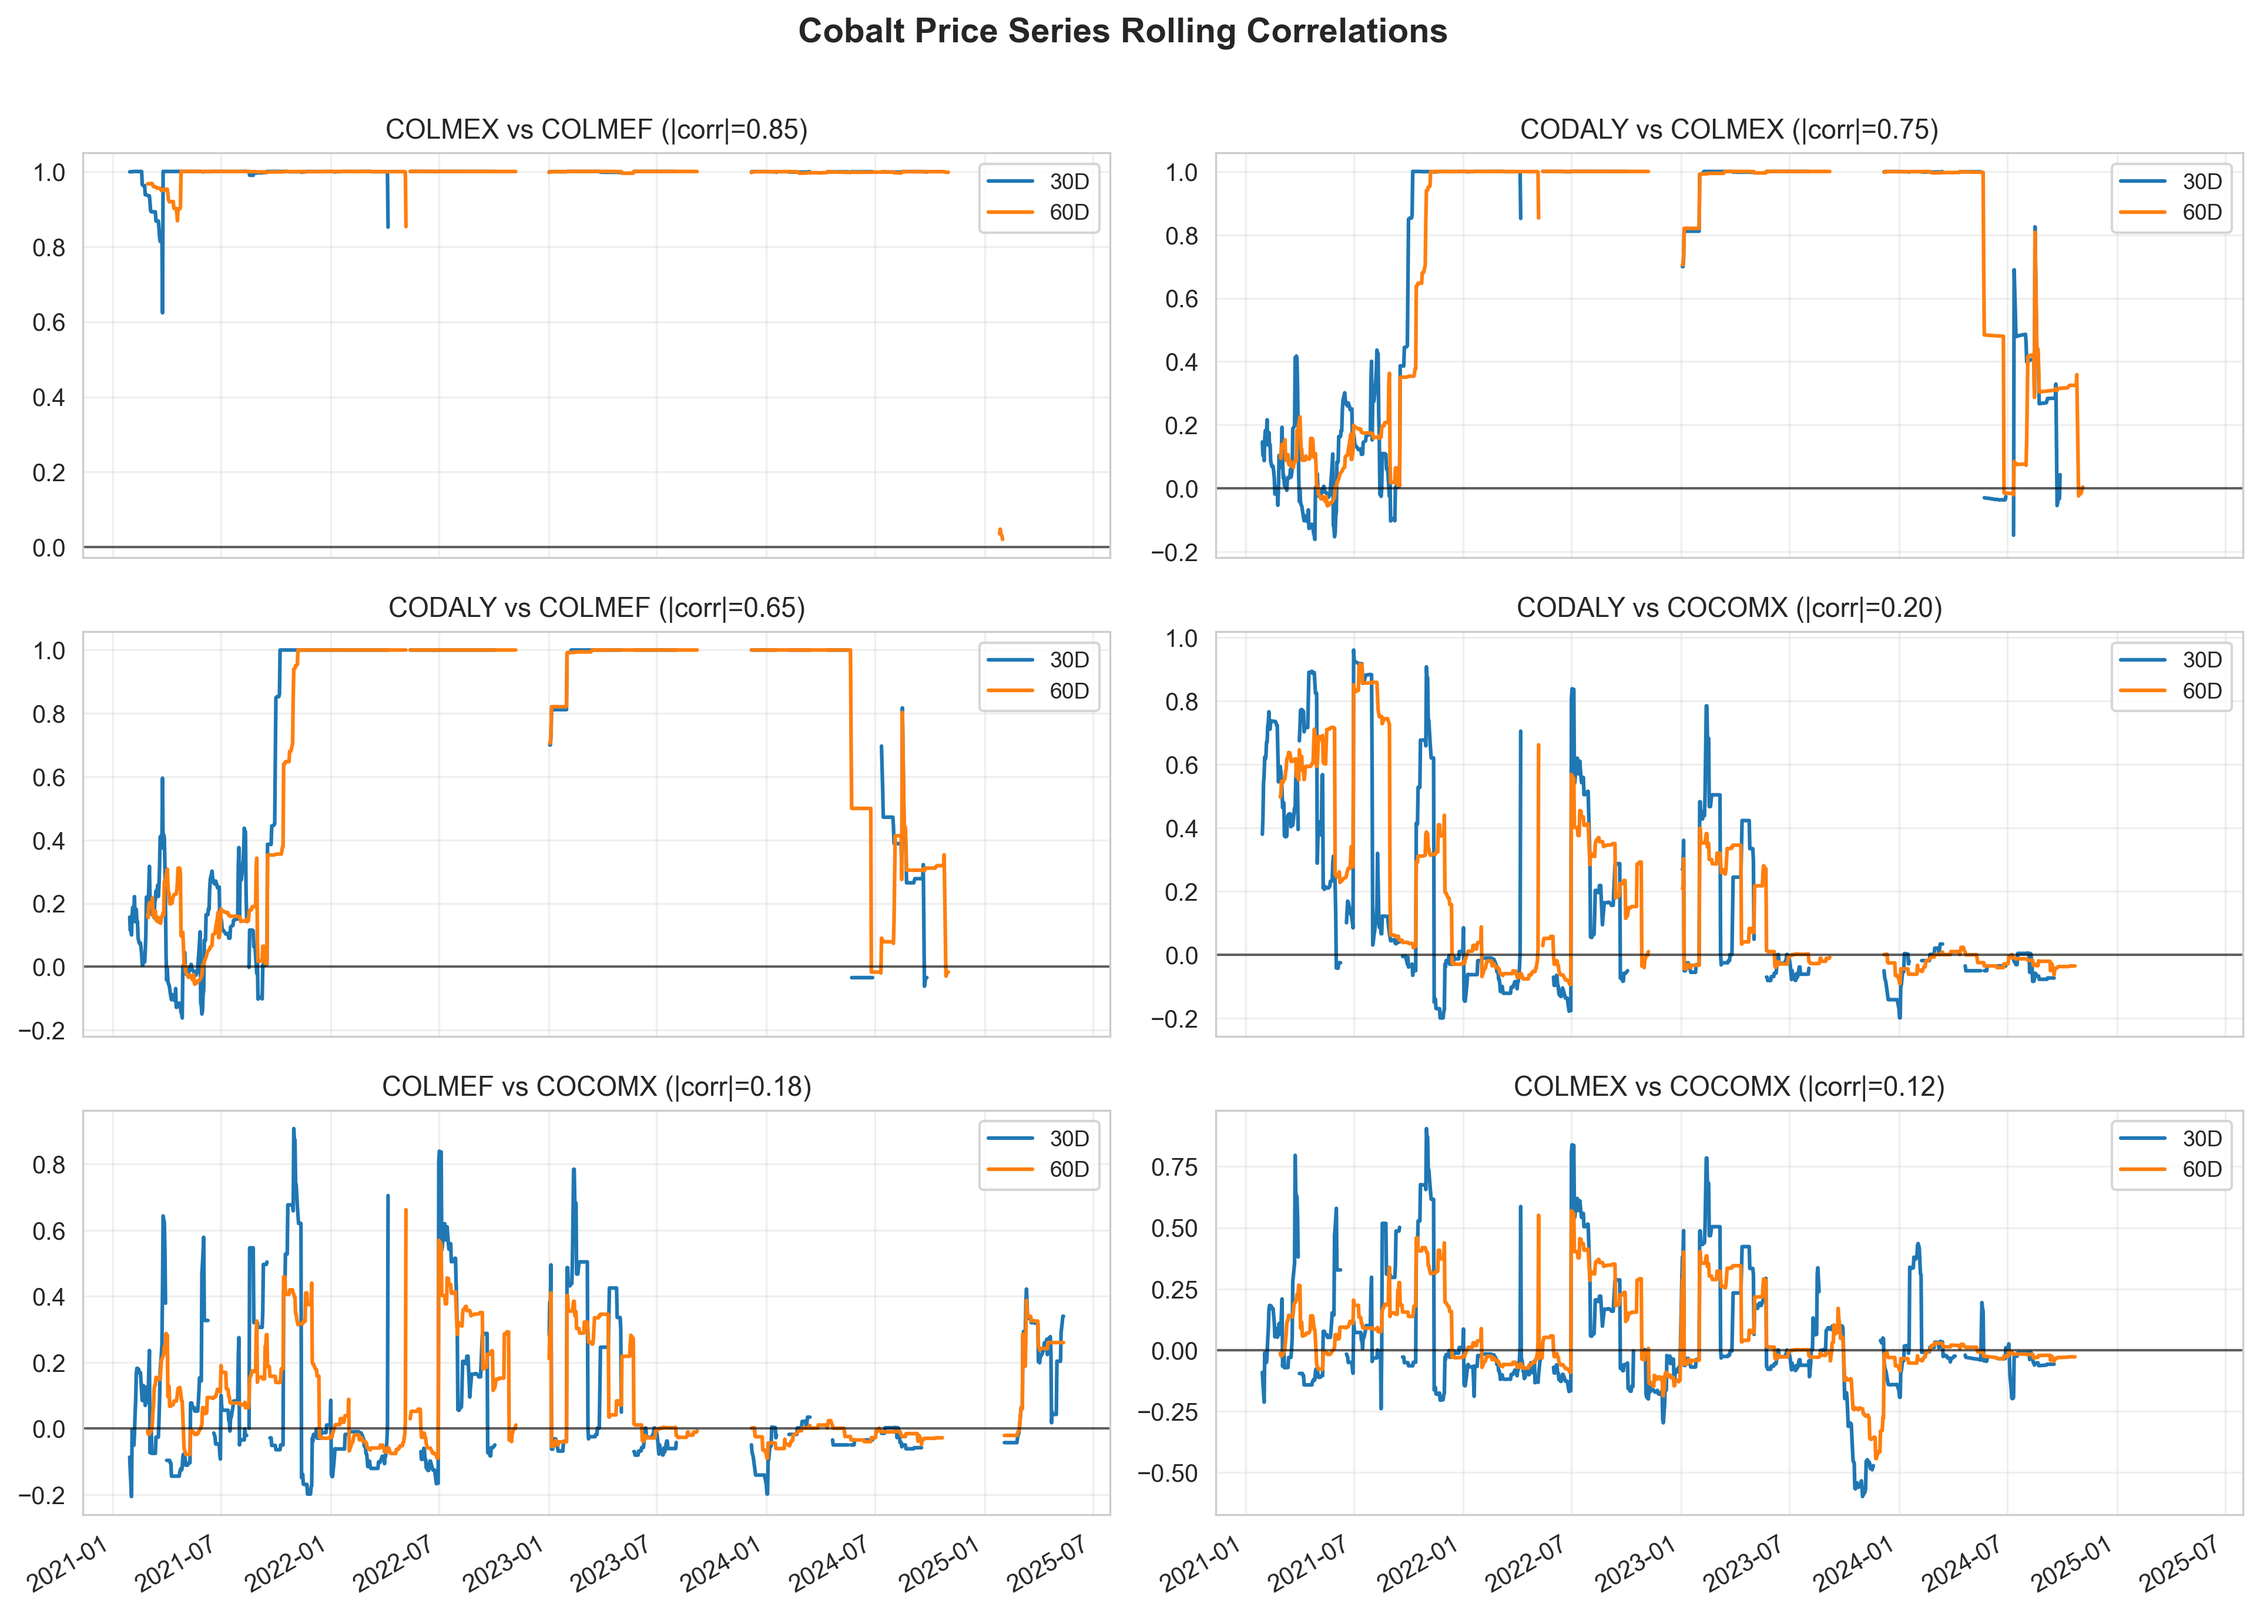
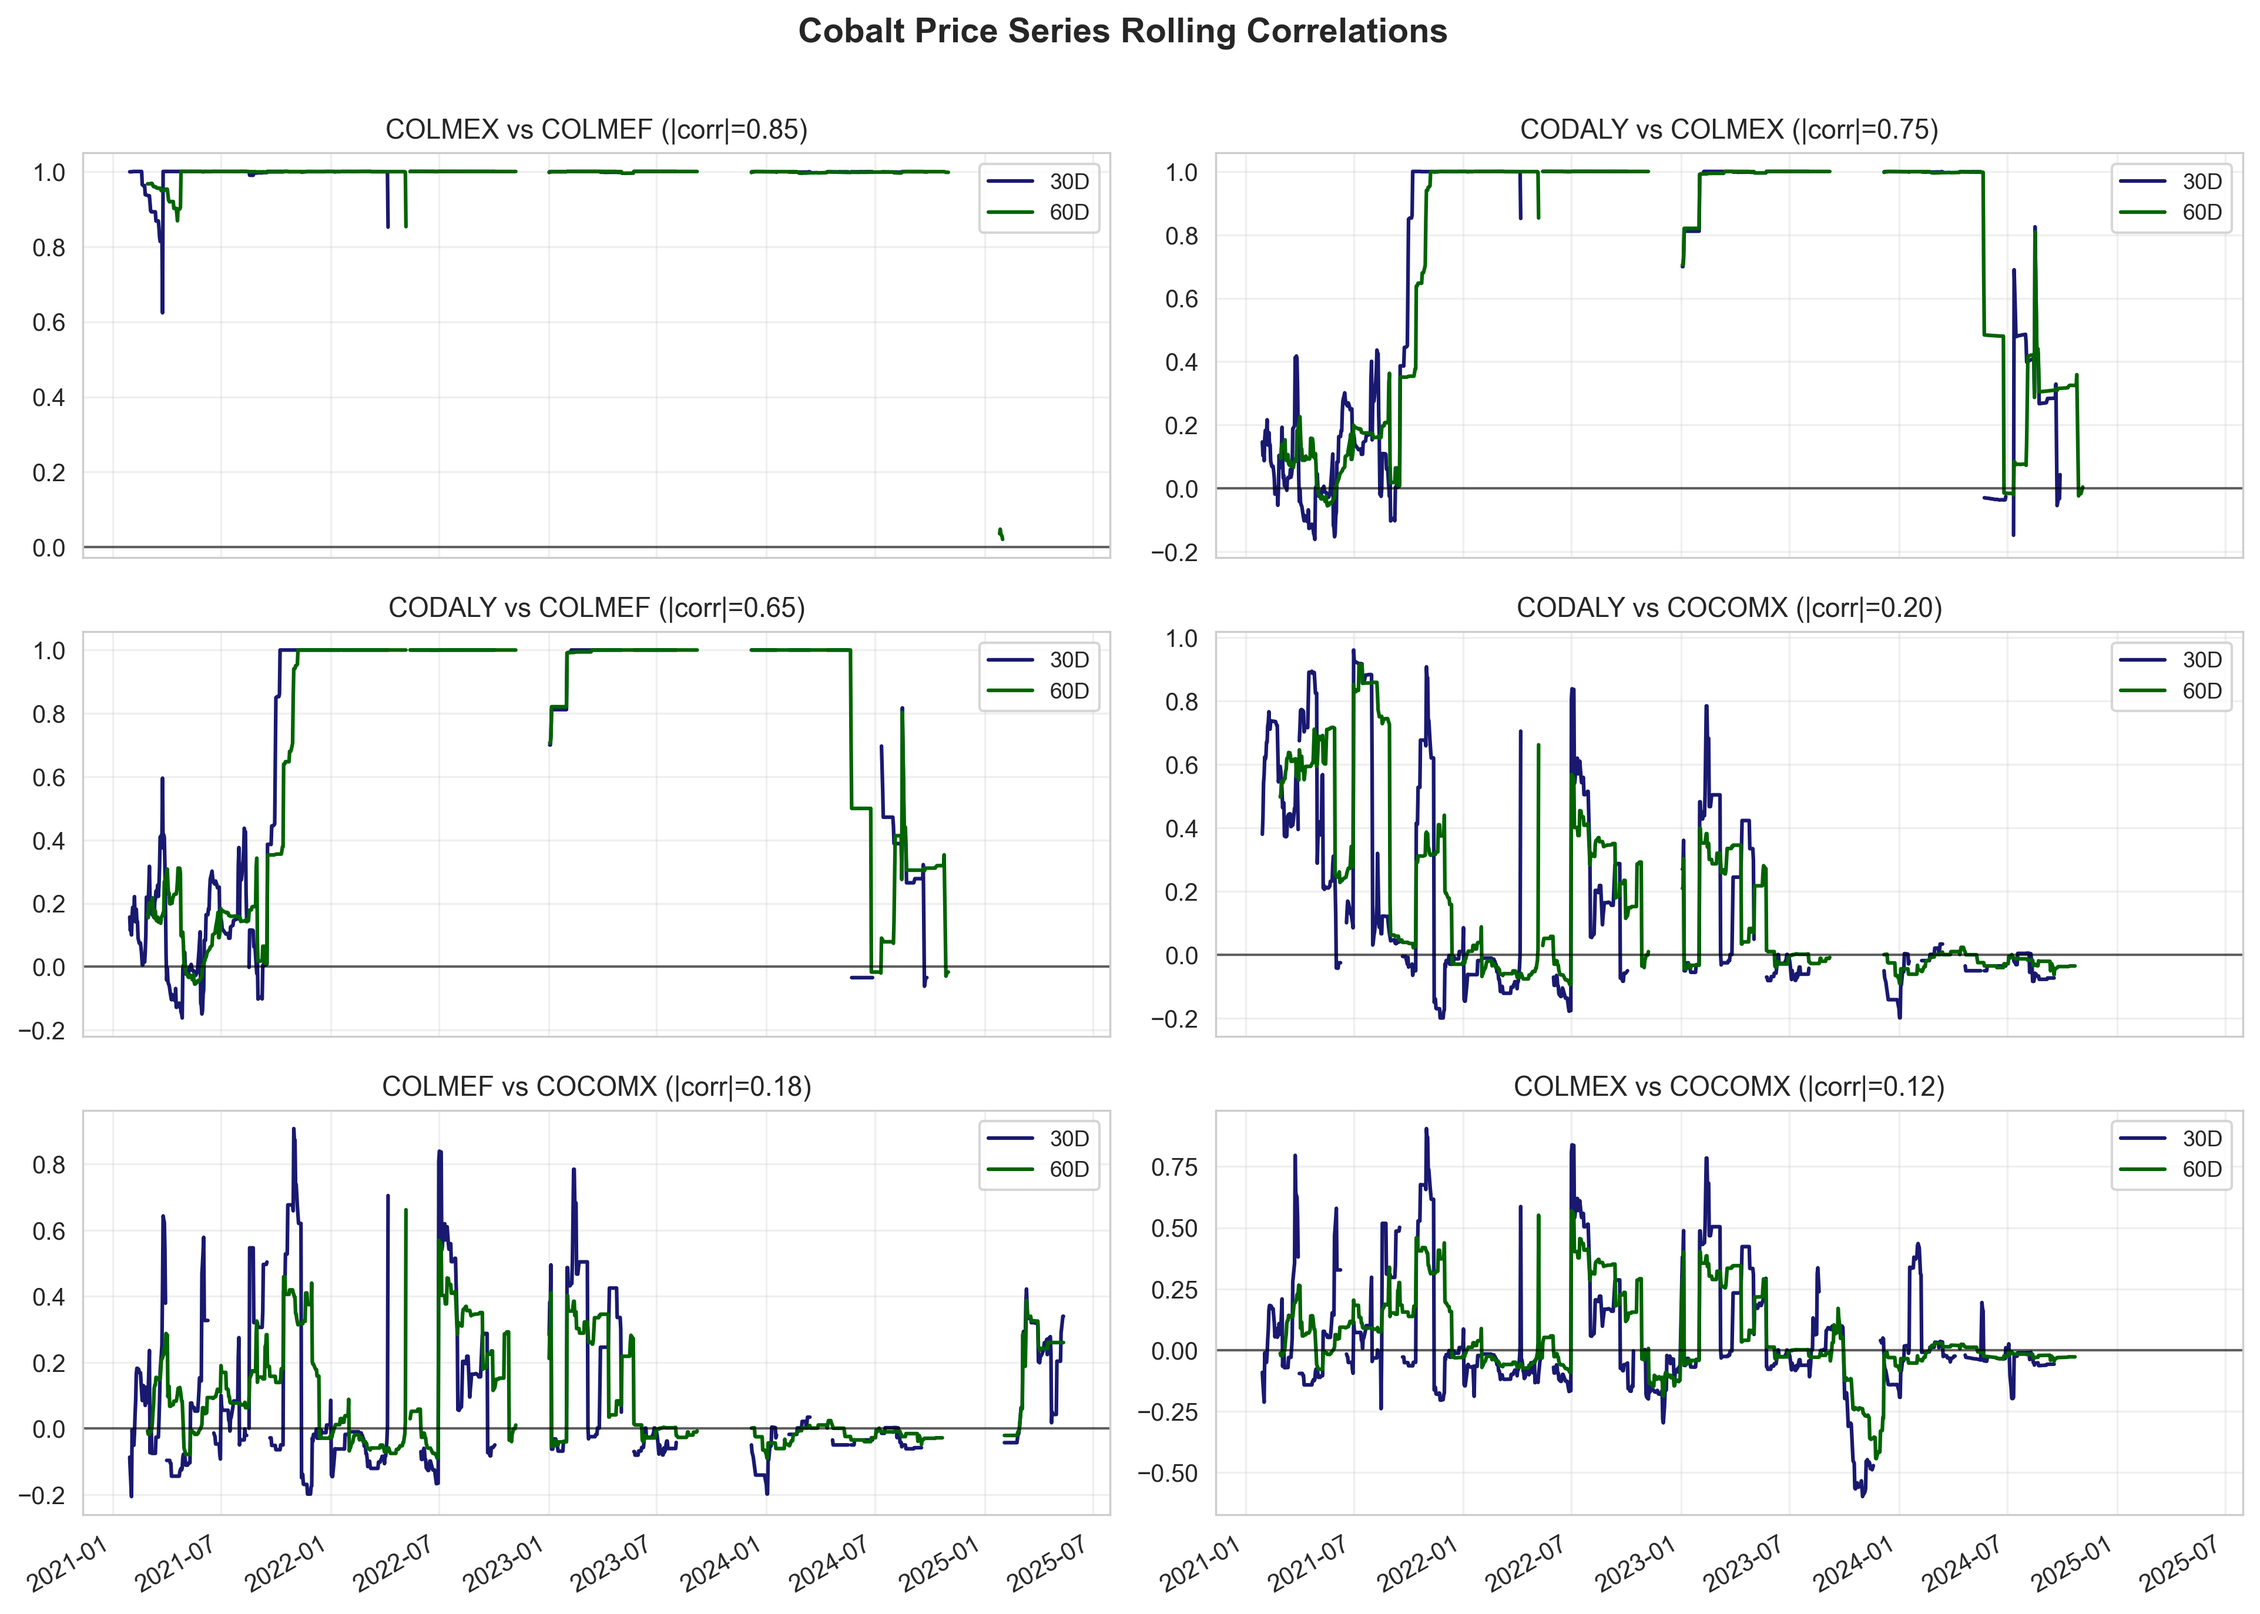
UPD: update rolling panels for copper, lithium, and nickel to use new interpolated CSVs, adjust rolling window sizes, and implement column renaming functionality

diff --git a/barb_experiments/lithium_rolling_panels.py b/barb_experiments/lithium_rolling_panels.py
@@ -1,6 +1,6 @@
 #!/usr/bin/env python3
 """
-Compute rolling correlation windows for copper time series from copper_prices_tickers.csv.
+Compute rolling correlation windows for lithium time series from ALL_lithium_prices_interpolated.csv.
 This script analyzes rolling correlations between different copper price series.
 """
 
@@ -15,7 +15,8 @@ from typing import List, Tuple
 
 def load_and_prepare_data(csv_path: str) -> pd.DataFrame:
     """Load CSV and prepare data for correlation analysis."""
-    df = pd.read_csv("barb_experiments/barb_data/lithium_prices_tickers.csv")
+    #df = pd.read_csv("barb_experiments/barb_data/lithium_prices_tickers.csv")
+    df = pd.read_csv("data/ALL_lithium_prices_interpolated.csv")
     
     if 'Date' not in df.columns:
         raise ValueError(f"Expected a 'Date' column in {csv_path}")
@@ -30,7 +31,26 @@ def load_and_prepare_data(csv_path: str) -> pd.DataFrame:
             continue
         if not pd.api.types.is_numeric_dtype(df[col]):
             df[col] = pd.to_numeric(df[col], errors='coerce')
+    ticker_mapping = {
+            "Price_DailyMetal": "LIDALY",
+            "Price_SouthAmericaLOB": "LISAME",
+            "Price_COMEXLithiumHydroxide": "LICOMX",
+            "Price_LithiumAmericasCorp": "LILAMC",
+            "Price_EastAsiaLithiumCarbonate": "LIEALC",
+            "Price_LithiumLME": "LILMEX"
+        }
+    # Apply the mapping to rename columns
+    df = df.rename(columns=ticker_mapping)
+
+    # Optional: Print which columns were renamed for debugging
+    renamed_cols = [old for old in ticker_mapping.keys() if old in df.columns]
+    if renamed_cols:
+        print(f"Renamed columns: {renamed_cols}")
     
+    # Optional: Check for unmapped columns (excluding Date)
+    unmapped_cols = [col for col in df.columns if col != 'Date' and col not in ticker_mapping.values()]
+    if unmapped_cols:
+        print(f"Warning: Unmapped columns found: {unmapped_cols}")
     return df
 
 
@@ -73,7 +93,7 @@ def get_top_correlated_pairs(returns: pd.DataFrame, top_n: int = 6) -> List[Tupl
 
 
 def plot_rolling_correlations(returns: pd.DataFrame, pairs: List[Tuple[str, str, float]], 
-                            windows: List[int] = [20, 60], output_path: str = None, 
+                            windows: List[int] = [30, 60], output_path: str = None, 
                             ncols: int = 2) -> None:
     """Plot rolling correlations for top pairs."""
     
@@ -85,7 +105,8 @@ def plot_rolling_correlations(returns: pd.DataFrame, pairs: List[Tuple[str, str,
     nrows = int(np.ceil(n_pairs / ncols))
     
     # Set up colors
-    palette = sns.color_palette('tab10', n_colors=max(3, len(windows)))
+    #palette = sns.color_palette('tab10', n_colors=max(3, len(windows)))
+    palette = sns.color_palette(['#191970', '#006400'], n_colors=max(3, len(windows)))
     sns.set_style('whitegrid')
     
     # Create subplots
@@ -171,8 +192,8 @@ def analyze_csv_correlations(csv_path: str, windows: List[int] = [30, 60],
 # Example usage
 if __name__ == "__main__":
     # Example parameters - modify these for your use case
-    csv_file = "barb_experiments/barb_data/lithium_prices_tickers.csv"  # Copper CSV path
-    rolling_windows = [20, 60]  # Rolling window sizes in days
+    csv_file = "data/ALL_lithium_prices_interpolated.csv"  # Copper CSV path
+    rolling_windows = [30, 60]  # Rolling window sizes in days
     top_pairs = 6  # Number of top correlated pairs to plot
     columns_per_row = 2  # Number of columns in subplot grid
     

diff --git a/barb_experiments/copper_rolling_panels.py b/barb_experiments/copper_rolling_panels.py
@@ -15,8 +15,9 @@ from typing import List, Tuple
 
 def load_and_prepare_data(csv_path: str) -> pd.DataFrame:
     """Load CSV and prepare data for correlation analysis."""
-    df = pd.read_csv("barb_experiments/barb_data/copper_prices_tickers.csv")
-    
+    #df = pd.read_csv("barb_experiments/barb_data/copper_prices_tickers.csv")
+    df = pd.read_csv("data/ALL_copper_prices_interpolated.csv")
+
     if 'Date' not in df.columns:
         raise ValueError(f"Expected a 'Date' column in {csv_path}")
     
@@ -31,6 +32,27 @@ def load_and_prepare_data(csv_path: str) -> pd.DataFrame:
         if not pd.api.types.is_numeric_dtype(df[col]):
             df[col] = pd.to_numeric(df[col], errors='coerce')
     
+    ticker_mapping = {
+        'Price_DailyMetal': 'CUDALY',      # Daily Metal Cobalt prices
+        'Price_COMEX': 'CUCOMX',
+        'Price_LME_3M': 'CULMEX',
+        'Price_SMM_Guixi': 'CUSMMG',           # LME 3M Cobalt
+        'Price_SHFE': 'CUSHFE',            # WUXI Cobalt futures
+        'Price_ETF': 'CUETFC'              # COMEX Cobalt Metal (Fastmarkets) Electronic Commodity 
+    }
+    # Apply the mapping to rename columns
+    df = df.rename(columns=ticker_mapping)
+    
+    # Optional: Print which columns were renamed for debugging
+    renamed_cols = [old for old in ticker_mapping.keys() if old in df.columns]
+    if renamed_cols:
+        print(f"Renamed columns: {renamed_cols}")
+    
+    # Optional: Check for unmapped columns (excluding Date)
+    unmapped_cols = [col for col in df.columns if col != 'Date' and col not in ticker_mapping.values()]
+    if unmapped_cols:
+        print(f"Warning: Unmapped columns found: {unmapped_cols}")
+
     return df
 
 
@@ -73,7 +95,7 @@ def get_top_correlated_pairs(returns: pd.DataFrame, top_n: int = 6) -> List[Tupl
 
 
 def plot_rolling_correlations(returns: pd.DataFrame, pairs: List[Tuple[str, str, float]], 
-                            windows: List[int] = [20, 60], output_path: str = None, 
+                            windows: List[int] = [30, 60], output_path: str = None, 
                             ncols: int = 2) -> None:
     """Plot rolling correlations for top pairs."""
     
@@ -85,7 +107,8 @@ def plot_rolling_correlations(returns: pd.DataFrame, pairs: List[Tuple[str, str,
     nrows = int(np.ceil(n_pairs / ncols))
     
     # Set up colors
-    palette = sns.color_palette('tab10', n_colors=max(3, len(windows)))
+    #palette = sns.color_palette('tab10', n_colors=max(3, len(windows)))
+    palette = sns.color_palette(['#191970', '#006400'], n_colors=max(3, len(windows)))
     sns.set_style('whitegrid')
     
     # Create subplots
@@ -171,8 +194,8 @@ def analyze_csv_correlations(csv_path: str, windows: List[int] = [30, 60],
 # Example usage
 if __name__ == "__main__":
     # Example parameters - modify these for your use case
-    csv_file = "barb_experiments/barb_data/copper_prices_tickers.csv"  # Copper CSV path
-    rolling_windows = [20, 60]  # Rolling window sizes in days
+    csv_file = "data/ALL_copper_prices_interpolated.csv"  # Copper CSV path
+    rolling_windows = [30, 60]  # Rolling window sizes in days
     top_pairs = 6  # Number of top correlated pairs to plot
     columns_per_row = 2  # Number of columns in subplot grid
     

diff --git a/barb_experiments/nickel_rolling_panels.py b/barb_experiments/nickel_rolling_panels.py
@@ -13,7 +13,8 @@ from typing import List, Tuple
 
 def load_and_prepare_data(csv_path: str) -> pd.DataFrame:
     """Load CSV and prepare data for correlation analysis."""
-    df = pd.read_csv("barb_experiments/barb_data/nickel_prices_tickers.csv")
+    #df = pd.read_csv("barb_experiments/barb_data/nickel_prices_tickers.csv")
+    df = pd.read_csv("data/ALL_nickel_prices_interpolated.csv")
     
     if 'Date' not in df.columns:
         raise ValueError(f"Expected a 'Date' column in {csv_path}")
@@ -29,6 +30,26 @@ def load_and_prepare_data(csv_path: str) -> pd.DataFrame:
         if not pd.api.types.is_numeric_dtype(df[col]):
             df[col] = pd.to_numeric(df[col], errors='coerce')
     
+    ticker_mapping = {
+        'Price_DailyMetal': 'NIDALY',
+        'Price_LME': 'NILMEX',
+        'Price_ETF': 'NIETFN',
+        'Price_SHFE': 'NISHFE',
+        'Price_WUXI': 'NIWUXI',
+        'Price_India': 'NIINDA'
+    }
+    # Apply the mapping to rename columns
+    df = df.rename(columns=ticker_mapping)
+    
+    # Optional: Print which columns were renamed for debugging
+    renamed_cols = [old for old in ticker_mapping.keys() if old in df.columns]
+    if renamed_cols:
+        print(f"Renamed columns: {renamed_cols}")
+    
+    # Optional: Check for unmapped columns (excluding Date)
+    unmapped_cols = [col for col in df.columns if col != 'Date' and col not in ticker_mapping.values()]
+    if unmapped_cols:
+        print(f"Warning: Unmapped columns found: {unmapped_cols}")
     return df
 
 
@@ -71,7 +92,7 @@ def get_top_correlated_pairs(returns: pd.DataFrame, top_n: int = 6) -> List[Tupl
 
 
 def plot_rolling_correlations(returns: pd.DataFrame, pairs: List[Tuple[str, str, float]], 
-                            windows: List[int] = [20, 60], output_path: str = None, 
+                            windows: List[int] = [30, 60], output_path: str = None, 
                             ncols: int = 2) -> None:
     """Plot rolling correlations for top pairs."""
     
@@ -83,7 +104,8 @@ def plot_rolling_correlations(returns: pd.DataFrame, pairs: List[Tuple[str, str,
     nrows = int(np.ceil(n_pairs / ncols))
     
     # Set up colors
-    palette = sns.color_palette('tab10', n_colors=max(3, len(windows)))
+    #palette = sns.color_palette('tab10', n_colors=max(3, len(windows)))
+    palette = sns.color_palette(['#191970', '#006400'], n_colors=max(3, len(windows)))
     sns.set_style('whitegrid')
     
     # Create subplots
@@ -169,8 +191,8 @@ def analyze_csv_correlations(csv_path: str, windows: List[int] = [30, 60],
 # Example usage
 if __name__ == "__main__":
     # Example parameters - modify these for your use case
-    csv_file = "barb_experiments/barb_data/nickel_prices_tickers.csv"  # Replace with your CSV path
-    rolling_windows = [20, 60]  # Rolling window sizes in days
+    csv_file = "data/ALL_nickel_prices_interpolated.csv"  # Replace with your CSV path
+    rolling_windows = [30, 60]  # Rolling window sizes in days
     top_pairs = 6  # Number of top correlated pairs to plot
     columns_per_row = 2  # Number of columns in subplot grid
     

diff --git a/barb_experiments/cobalt_rolling_panels.py b/barb_experiments/cobalt_rolling_panels.py
@@ -107,8 +107,8 @@ def plot_rolling_correlations(returns: pd.DataFrame, pairs: List[Tuple[str, str,
     nrows = int(np.ceil(n_pairs / ncols))
     
     # Set up colors
-    palette = sns.color_palette('tab10', n_colors=max(3, len(windows)))
-    #palette = sns.color_palette(['#191970', '#006400'], n_colors=max(3, len(windows)))
+    #palette = sns.color_palette('tab10', n_colors=max(3, len(windows)))
+    palette = sns.color_palette(['#191970', '#006400'], n_colors=max(3, len(windows)))
     sns.set_style('whitegrid')
     
     # Create subplots
